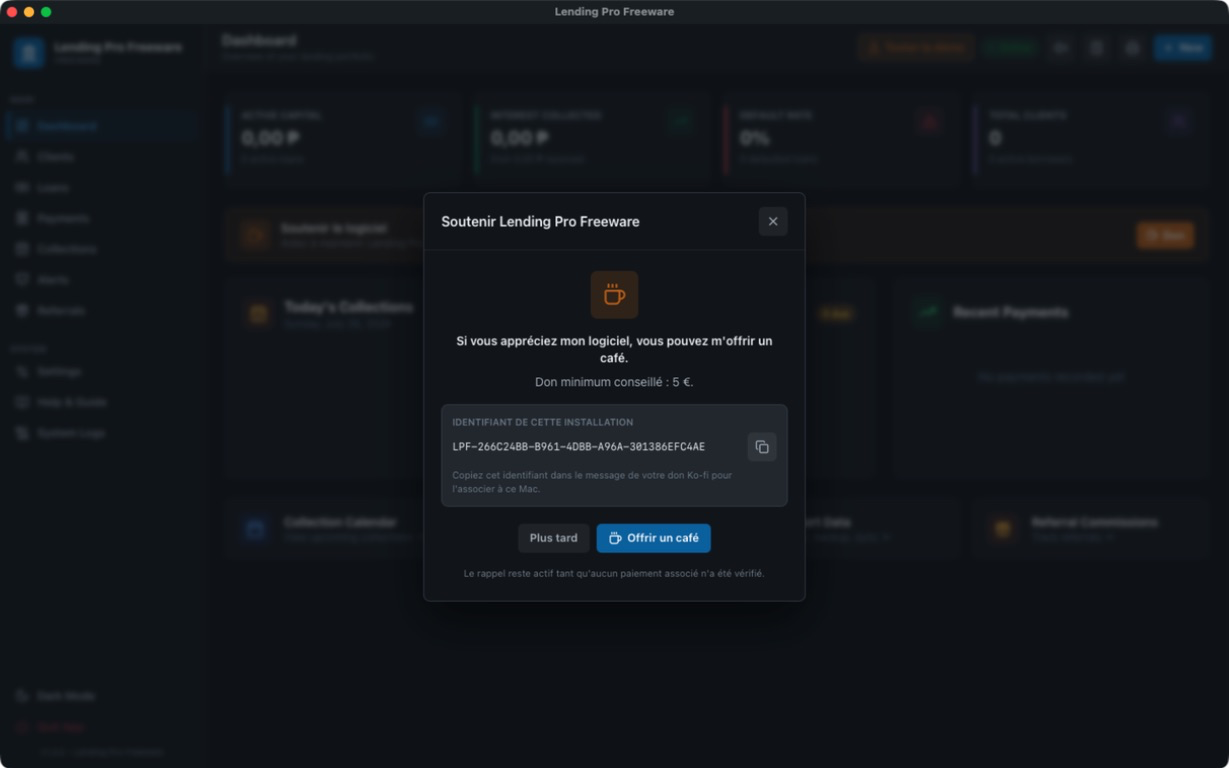
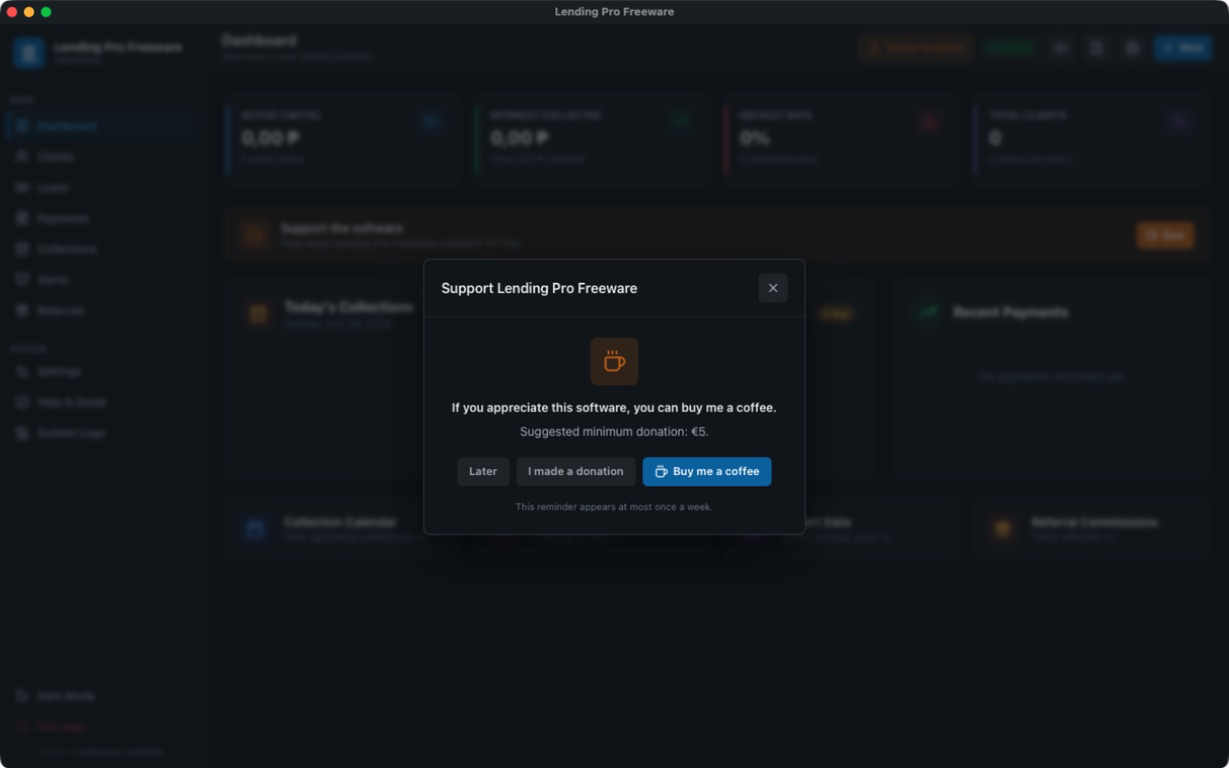
Simplify donation reminder frequency

Changed region(s): [[0.371, 0.3438, 0.6493, 0.75], [0.3401, 0.2812, 0.5256, 0.3125]]

diff --git a/web/i18n.js b/web/i18n.js
@@ -1,37 +1,31 @@
 const I18n = {
     language: 'en',
     packs: {
-        en: ['Support Lending Pro Freeware','If you appreciate this software, you can buy me a coffee.','Suggested minimum donation: €5.','Installation ID','Later','Buy me a coffee'],
-        fr: ['Soutenir Lending Pro Freeware',"Si vous appréciez mon logiciel, vous pouvez m'offrir un café.",'Don minimum conseillé : 5 €.','Identifiant de cette installation','Plus tard','Offrir un café'],
-        es: ['Apoyar Lending Pro Freeware','Si te gusta este programa, puedes invitarme a un café.','Donación mínima sugerida: 5 €.','ID de instalación','Más tarde','Invitar a un café'],
-        de: ['Lending Pro Freeware unterstützen','Wenn Ihnen die Software gefällt, können Sie mir einen Kaffee spendieren.','Empfohlene Mindestspende: 5 €.','Installations-ID','Später','Kaffee spendieren'],
-        it: ['Sostieni Lending Pro Freeware','Se apprezzi il software, puoi offrirmi un caffè.','Donazione minima consigliata: 5 €.','ID installazione','Più tardi','Offri un caffè'],
-        pt: ['Apoiar Lending Pro Freeware','Se gosta do software, pode oferecer-me um café.','Doação mínima sugerida: 5 €.','ID da instalação','Mais tarde','Oferecer um café'],
-        nl: ['Lending Pro Freeware steunen','Als u de software waardeert, kunt u mij op koffie trakteren.','Aanbevolen minimale donatie: € 5.','Installatie-ID','Later','Koffie aanbieden'],
-        fil: ['Suportahan ang Lending Pro Freeware','Kung gusto mo ang software, maaari mo akong ilibre ng kape.','Iminungkahing minimum na donasyon: €5.','Installation ID','Mamaya','Maglibre ng kape'],
-        zh: ['支持 Lending Pro Freeware','如果您喜欢这个软件，可以请我喝杯咖啡。','建议最低捐赠：5 欧元。','安装标识','稍后','请喝咖啡'],
-        ja: ['Lending Pro Freeware を支援','このソフトウェアが気に入ったら、コーヒーをご支援いただけます。','推奨最低寄付額：5ユーロ。','インストールID','後で','コーヒーを贈る'],
-        ko: ['Lending Pro Freeware 후원','이 소프트웨어가 마음에 드시면 커피 한 잔을 후원해 주세요.','권장 최소 후원금: 5유로.','설치 ID','나중에','커피 후원'],
-        ar: ['دعم Lending Pro Freeware','إذا أعجبك البرنامج، يمكنك دعوتي إلى فنجان قهوة.','الحد الأدنى المقترح للتبرع: 5 يورو.','معرّف التثبيت','لاحقاً','قدّم قهوة'],
-        hi: ['Lending Pro Freeware का समर्थन करें','यदि आपको यह सॉफ्टवेयर पसंद है, तो आप मुझे कॉफी पिला सकते हैं।','सुझाया गया न्यूनतम दान: €5।','इंस्टॉलेशन आईडी','बाद में','कॉफी दें'],
-        th: ['สนับสนุน Lending Pro Freeware','หากคุณชอบซอฟต์แวร์นี้ คุณสามารถเลี้ยงกาแฟฉันได้','เงินบริจาคขั้นต่ำที่แนะนำ: €5','รหัสการติดตั้ง','ภายหลัง','เลี้ยงกาแฟ'],
-        ms: ['Sokong Lending Pro Freeware','Jika anda menghargai perisian ini, anda boleh belanja saya kopi.','Derma minimum dicadangkan: €5.','ID pemasangan','Nanti','Belanja kopi'],
-        id: ['Dukung Lending Pro Freeware','Jika Anda menyukai perangkat lunak ini, Anda dapat mentraktir saya kopi.','Donasi minimum yang disarankan: €5.','ID instalasi','Nanti','Traktir kopi'],
-        vi: ['Ủng hộ Lending Pro Freeware','Nếu bạn thích phần mềm này, bạn có thể mời tôi một ly cà phê.','Mức ủng hộ tối thiểu đề xuất: 5 €.','Mã cài đặt','Để sau','Mời cà phê']
+        en: ['Support Lending Pro Freeware','If you appreciate this software, you can buy me a coffee.','Suggested minimum donation: €5.','Later','Buy me a coffee','I made a donation','This reminder appears at most once a week.','Thank you. The next reminder will be in about three months.','Thank you for your support.'],
+        fr: ['Soutenir Lending Pro Freeware',"Si vous appréciez mon logiciel, vous pouvez m'offrir un café.",'Don minimum conseillé : 5 €.','Plus tard','Offrir un café',"J'ai fait un don",'Ce rappel apparaît au maximum une fois par semaine.','Merci. Le prochain rappel apparaîtra dans environ trois mois.','Merci pour votre soutien.'],
+        es: ['Apoyar Lending Pro Freeware','Si te gusta este programa, puedes invitarme a un café.','Donación mínima sugerida: 5 €.','Más tarde','Invitar a un café','He hecho una donación','Este recordatorio aparece como máximo una vez por semana.','Gracias. El próximo recordatorio aparecerá en unos tres meses.','Gracias por tu apoyo.'],
+        de: ['Lending Pro Freeware unterstützen','Wenn Ihnen die Software gefällt, können Sie mir einen Kaffee spendieren.','Empfohlene Mindestspende: 5 €.','Später','Kaffee spendieren','Ich habe gespendet','Diese Erinnerung erscheint höchstens einmal pro Woche.','Danke. Die nächste Erinnerung erscheint in etwa drei Monaten.','Vielen Dank für Ihre Unterstützung.'],
+        it: ['Sostieni Lending Pro Freeware','Se apprezzi il software, puoi offrirmi un caffè.','Donazione minima consigliata: 5 €.','Più tardi','Offri un caffè','Ho fatto una donazione','Questo promemoria appare al massimo una volta alla settimana.','Grazie. Il prossimo promemoria apparirà tra circa tre mesi.','Grazie per il tuo sostegno.'],
+        pt: ['Apoiar Lending Pro Freeware','Se gosta do software, pode oferecer-me um café.','Doação mínima sugerida: 5 €.','Mais tarde','Oferecer um café','Fiz uma doação','Este lembrete aparece no máximo uma vez por semana.','Obrigado. O próximo lembrete aparecerá dentro de cerca de três meses.','Obrigado pelo seu apoio.'],
+        nl: ['Lending Pro Freeware steunen','Als u de software waardeert, kunt u mij op koffie trakteren.','Aanbevolen minimale donatie: € 5.','Later','Koffie aanbieden','Ik heb gedoneerd','Deze herinnering verschijnt maximaal één keer per week.','Bedankt. De volgende herinnering verschijnt over ongeveer drie maanden.','Bedankt voor uw steun.'],
+        fil: ['Suportahan ang Lending Pro Freeware','Kung gusto mo ang software, maaari mo akong ilibre ng kape.','Iminungkahing minimum na donasyon: €5.','Mamaya','Maglibre ng kape','Nagbigay ako ng donasyon','Lumalabas ang paalalang ito nang hindi hihigit sa isang beses kada linggo.','Salamat. Lalabas ang susunod na paalala pagkalipas ng humigit-kumulang tatlong buwan.','Salamat sa iyong suporta.'],
+        zh: ['支持 Lending Pro Freeware','如果您喜欢这个软件，可以请我喝杯咖啡。','建议最低捐赠：5 欧元。','稍后','请喝咖啡','我已捐赠','此提醒每周最多显示一次。','感谢支持。下次提醒将在大约三个月后显示。','感谢您的支持。'],
+        ja: ['Lending Pro Freeware を支援','このソフトウェアが気に入ったら、コーヒーをご支援いただけます。','推奨最低寄付額：5ユーロ。','後で','コーヒーを贈る','寄付しました','この通知は週に1回まで表示されます。','ありがとうございます。次回の通知は約3か月後に表示されます。','ご支援ありがとうございます。'],
+        ko: ['Lending Pro Freeware 후원','이 소프트웨어가 마음에 드시면 커피 한 잔을 후원해 주세요.','권장 최소 후원금: 5유로.','나중에','커피 후원','후원했습니다','이 알림은 일주일에 한 번만 표시됩니다.','감사합니다. 다음 알림은 약 3개월 후에 표시됩니다.','후원해 주셔서 감사합니다.'],
+        ar: ['دعم Lending Pro Freeware','إذا أعجبك البرنامج، يمكنك دعوتي إلى فنجان قهوة.','الحد الأدنى المقترح للتبرع: 5 يورو.','لاحقاً','قدّم قهوة','لقد تبرعت','يظهر هذا التذكير مرة واحدة أسبوعياً كحد أقصى.','شكراً لك. سيظهر التذكير التالي بعد نحو ثلاثة أشهر.','شكراً لدعمك.'],
+        hi: ['Lending Pro Freeware का समर्थन करें','यदि आपको यह सॉफ्टवेयर पसंद है, तो आप मुझे कॉफी पिला सकते हैं।','सुझाया गया न्यूनतम दान: €5।','बाद में','कॉफी दें','मैंने दान किया है','यह रिमाइंडर सप्ताह में अधिकतम एक बार दिखाई देता है।','धन्यवाद। अगला रिमाइंडर लगभग तीन महीने बाद दिखाई देगा।','आपके समर्थन के लिए धन्यवाद।'],
+        th: ['สนับสนุน Lending Pro Freeware','หากคุณชอบซอฟต์แวร์นี้ คุณสามารถเลี้ยงกาแฟฉันได้','เงินบริจาคขั้นต่ำที่แนะนำ: €5','ภายหลัง','เลี้ยงกาแฟ','ฉันบริจาคแล้ว','การแจ้งเตือนนี้จะแสดงไม่เกินสัปดาห์ละครั้ง','ขอบคุณ การแจ้งเตือนครั้งถัดไปจะแสดงในอีกประมาณสามเดือน','ขอบคุณสำหรับการสนับสนุน'],
+        ms: ['Sokong Lending Pro Freeware','Jika anda menghargai perisian ini, anda boleh belanja saya kopi.','Derma minimum dicadangkan: €5.','Nanti','Belanja kopi','Saya telah menderma','Peringatan ini muncul paling banyak sekali seminggu.','Terima kasih. Peringatan seterusnya akan muncul dalam kira-kira tiga bulan.','Terima kasih atas sokongan anda.'],
+        id: ['Dukung Lending Pro Freeware','Jika Anda menyukai perangkat lunak ini, Anda dapat mentraktir saya kopi.','Donasi minimum yang disarankan: €5.','Nanti','Traktir kopi','Saya telah berdonasi','Pengingat ini muncul paling banyak sekali seminggu.','Terima kasih. Pengingat berikutnya akan muncul sekitar tiga bulan lagi.','Terima kasih atas dukungan Anda.'],
+        vi: ['Ủng hộ Lending Pro Freeware','Nếu bạn thích phần mềm này, bạn có thể mời tôi một ly cà phê.','Mức ủng hộ tối thiểu đề xuất: 5 €.','Để sau','Mời cà phê','Tôi đã ủng hộ','Lời nhắc này xuất hiện tối đa một lần mỗi tuần.','Cảm ơn bạn. Lời nhắc tiếp theo sẽ xuất hiện sau khoảng ba tháng.','Cảm ơn sự ủng hộ của bạn.']
     },
-    keys: ['title','message','minimum','installation','later','coffee'],
+    keys: ['title','message','minimum','later','coffee','donated','weekly','quarterly','thanks'],
     extra: {
         en: {
-            copy: 'Copy installation ID',
-            instruction: 'Copy this ID into your Ko-fi message to associate the donation with this Mac.',
-            reminder: 'The reminder stays active until an associated payment is verified.',
             support: 'Support the software',
             supportDescription: 'Help keep Lending Pro Freeware available for free.'
         },
         fr: {
-            copy: "Copier l'identifiant",
-            instruction: "Copiez cet identifiant dans le message Ko-fi pour associer le don à ce Mac.",
-            reminder: "Le rappel reste actif tant qu'aucun paiement associé n'a été vérifié.",
             support: 'Soutenir le logiciel',
             supportDescription: 'Aidez à maintenir Lending Pro Freeware disponible gratuitement.'
         }

diff --git a/web/app.js b/web/app.js
@@ -172,21 +172,34 @@ const SoundEngine = {
 
 };
 
-// Donation reminders are local-only. Ko-fi does not expose payment status to
-// this offline app, so users explicitly confirm when they no longer want them.
+// Donation reminder frequency is stored locally because this offline app does
+// not receive Ko-fi payment status.
 const DonationSupport = {
     url: 'https://ko-fi.com/astonswissapp',
-    installationId: '',
+    weekMs: 7 * 24 * 60 * 60 * 1000,
+    quarterMs: 90 * 24 * 60 * 60 * 1000,
+    lastPromptKey: 'lpf-donation-last-prompt-at',
+    donatedKey: 'lpf-donation-confirmed-at',
 
-    async init() {
-        this.installationId = await App.api('get_installation_id');
-    },
+    async init() {},
 
     maybePrompt() {
-        this.show();
+        const lastPrompt = Number(localStorage.getItem(this.lastPromptKey) || 0);
+        const interval = this.hasDonated() ? this.quarterMs : this.weekMs;
+        if (!Number.isFinite(lastPrompt) || Date.now() - lastPrompt >= interval) {
+            this.show(true);
+        }
     },
 
-    show() {
+    hasDonated() {
+        return Boolean(localStorage.getItem(this.donatedKey));
+    },
+
+    show(recordScheduledPrompt = false) {
+        if (recordScheduledPrompt) {
+            localStorage.setItem(this.lastPromptKey, String(Date.now()));
+        }
+        const reminder = this.hasDonated() ? I18n.t('quarterly') : I18n.t('weekly');
         UI.showModal(I18n.t('title'), `
             <div class="text-center space-y-4 py-2">
                 <div class="w-14 h-14 rounded-2xl mx-auto flex items-center justify-center"
@@ -201,26 +214,15 @@ const DonationSupport = {
                         ${I18n.t('minimum')}
                     </p>
                 </div>
-                <div class="p-3 rounded-lg text-left" style="background:var(--surface-2); border:1px solid var(--surface-3);">
-                    <p class="text-[11px] font-semibold mb-1" style="color:var(--text-tertiary)">${I18n.t('installation')}</p>
-                    <div class="flex items-center justify-between gap-2">
-                        <code class="text-xs break-all" style="color:var(--text-primary)">${this.installationId}</code>
-                        <button onclick="DonationSupport.copyInstallationId()" class="btn btn-icon btn-ghost flex-shrink-0" title="${I18n.x('copy')}">
-                            <i data-lucide="copy" class="w-4 h-4"></i>
-                        </button>
-                    </div>
-                    <p class="text-[11px] mt-2" style="color:var(--text-tertiary)">
-                        ${I18n.x('instruction')}
-                    </p>
-                </div>
                 <div class="flex flex-wrap gap-2 justify-center pt-1">
                     <button onclick="UI.closeModal()" class="btn btn-ghost">${I18n.t('later')}</button>
+                    <button onclick="DonationSupport.confirmDonation()" class="btn btn-ghost">${I18n.t('donated')}</button>
                     <button onclick="DonationSupport.open()" class="btn btn-primary">
                         <i data-lucide="coffee" class="w-4 h-4"></i> ${I18n.t('coffee')}
                     </button>
                 </div>
                 <p class="text-[11px]" style="color:var(--text-tertiary)">
-                    ${I18n.x('reminder')}
+                    ${reminder}
                 </p>
             </div>
         `, { width: 'max-w-md' });
@@ -235,13 +237,12 @@ const DonationSupport = {
         UI.closeModal();
     },
 
-    async copyInstallationId() {
-        try {
-            await navigator.clipboard.writeText(this.installationId);
-            UI.toast('Identifiant copié.', 'success');
-        } catch (error) {
-            UI.toast('Impossible de copier l’identifiant.', 'error');
-        }
+    confirmDonation() {
+        const now = String(Date.now());
+        localStorage.setItem(this.donatedKey, now);
+        localStorage.setItem(this.lastPromptKey, now);
+        UI.closeModal();
+        UI.toast(I18n.t('thanks'), 'success');
     }
 };
 
@@ -282,7 +283,7 @@ const App = {
         this.isDemoMode = Boolean(appMode.demo_active);
         document.title = this.appName;
         const versionLabel = document.getElementById('sidebar-version');
-        if (versionLabel) versionLabel.textContent = `v1.3.0 - ${this.appName}`;
+        if (versionLabel) versionLabel.textContent = `v1.3.1 - ${this.appName}`;
         this.updateDemoControl();
         setInterval(() => this.checkOnlineStatus(), 30000);
         this.loadLogo();

diff --git a/web/index.html b/web/index.html
@@ -108,7 +108,7 @@
                 <i data-lucide="power" class="w-4 h-4"></i>
                 <span>Quit App</span>
             </button>
-            <p id="sidebar-version" class="text-[10px] text-center pt-1" style="color: var(--text-tertiary);">v1.3.0 - Lending Pro Freeware</p>
+            <p id="sidebar-version" class="text-[10px] text-center pt-1" style="color: var(--text-tertiary);">v1.3.1 - Lending Pro Freeware</p>
         </div>
     </aside>
 

diff --git a/api.py b/api.py
@@ -23,7 +23,6 @@ from dateutil.relativedelta import relativedelta
 
 import logger as app_logger  # persistent error logger
 from app_config import APP_NAME, DEMO_ONLY
-from installation_id import get_installation_id
 from currency_utils import normalize_currency
 
 from database import (
@@ -375,10 +374,6 @@ class Api:
             "demo_edition": self._demo_only,
             "demo_active": self._is_demo,
         }
-
-    def get_installation_id(self):
-        """Return the anonymous ID used to associate future donation receipts."""
-        return get_installation_id()
 
     def open_file(self, file_path):
         """Open any existing file or directory natively."""
@@ -2177,7 +2172,7 @@ class Api:
     def get_app_info(self):
         """Get application info."""
         return {
-            "version": "1.3.0",
+            "version": "1.3.1",
             "name": APP_NAME,
             "demo_only": self._is_restricted_demo(),
             "demo_edition": self._demo_only,

diff --git a/tests/test_core_workflows.py b/tests/test_core_workflows.py
@@ -10,7 +10,6 @@ from pathlib import Path
 
 PROJECT_MODULES = [
     "app_config",
-    "installation_id",
     "currency_utils",
     "api",
     "backup",
@@ -45,19 +44,6 @@ def fresh_modules(tmp_path, monkeypatch):
 def fresh_api(tmp_path, monkeypatch):
     api, database, backup = fresh_modules(tmp_path, monkeypatch)
     return api.Api(), api, database, backup
-
-
-def test_installation_id_is_stable_and_anonymous(tmp_path, monkeypatch):
-    api_obj, _, _, _ = fresh_api(tmp_path, monkeypatch)
-    first_id = api_obj.get_installation_id()
-    second_id = api_obj.get_installation_id()
-
-    assert first_id == second_id
-    assert re.fullmatch(
-        r"LPF-[0-9A-F]{8}-[0-9A-F]{4}-[0-9A-F]{4}-[0-9A-F]{4}-[0-9A-F]{12}",
-        first_id,
-    )
-    assert "@" not in first_id
 
 
 def test_currency_setting_is_validated_and_persisted(tmp_path, monkeypatch):

diff --git a/build_macos_demo.py b/build_macos_demo.py
@@ -132,7 +132,7 @@ def build_app():
     info.update({
         "CFBundleDisplayName": APP_NAME,
         "CFBundleName": APP_NAME,
-        "CFBundleShortVersionString": "1.3.0",
+        "CFBundleShortVersionString": "1.3.1",
         "CFBundleVersion": "5",
         "LSMinimumSystemVersion": "12.0",
         "NSCameraUsageDescription": "Lending Pro Freeware uses the camera to capture client photos.",

diff --git a/scripts/check_project.py b/scripts/check_project.py
@@ -12,7 +12,6 @@ from pathlib import Path
 ROOT = Path(__file__).resolve().parents[1]
 PYTHON_FILES = [
     "app_config.py",
-    "installation_id.py",
     "currency_utils.py",
     "api.py",
     "backup.py",

diff --git a/README.md b/README.md
@@ -83,7 +83,7 @@ See [SECURITY.md](SECURITY.md) for responsible vulnerability reporting.
 
 Lending Pro Freeware remains free to use. You can support its maintenance with a donation of **€5 or more** through [Ko-fi](https://ko-fi.com/astonswissapp).
 
-The dashboard always keeps a **Don** button available. Every installation receives an anonymous local ID that can be included in the Ko-fi message. There is no manual bypass: the reminder returns at launch until a payment associated with that ID can be verified by the creator's Ko-fi webhook service.
+The dashboard always keeps a **Don** button available. The automatic reminder appears at most once every 7 days. After the user locally confirms that a donation was made, it appears at most once every 90 days. This preference stays on the device and does not claim to verify Ko-fi payment status.
 
 ## Contributing
 

diff --git a/CHANGELOG.md b/CHANGELOG.md
@@ -1,5 +1,12 @@
 # Changelog
 
+## 1.3.1 - 2026-07-26
+
+- Changed the donation reminder to appear at most once every 7 days.
+- Changed the reminder interval to 90 days after local donation confirmation.
+- Removed the unused installation ID and future license-verification design.
+- Localized the new reminder and confirmation labels in all 17 supported donation-dialog languages.
+
 ## 1.3.0 - 2026-07-26
 
 - Added a checksum-verified command-line installer for Apple Silicon macOS.
